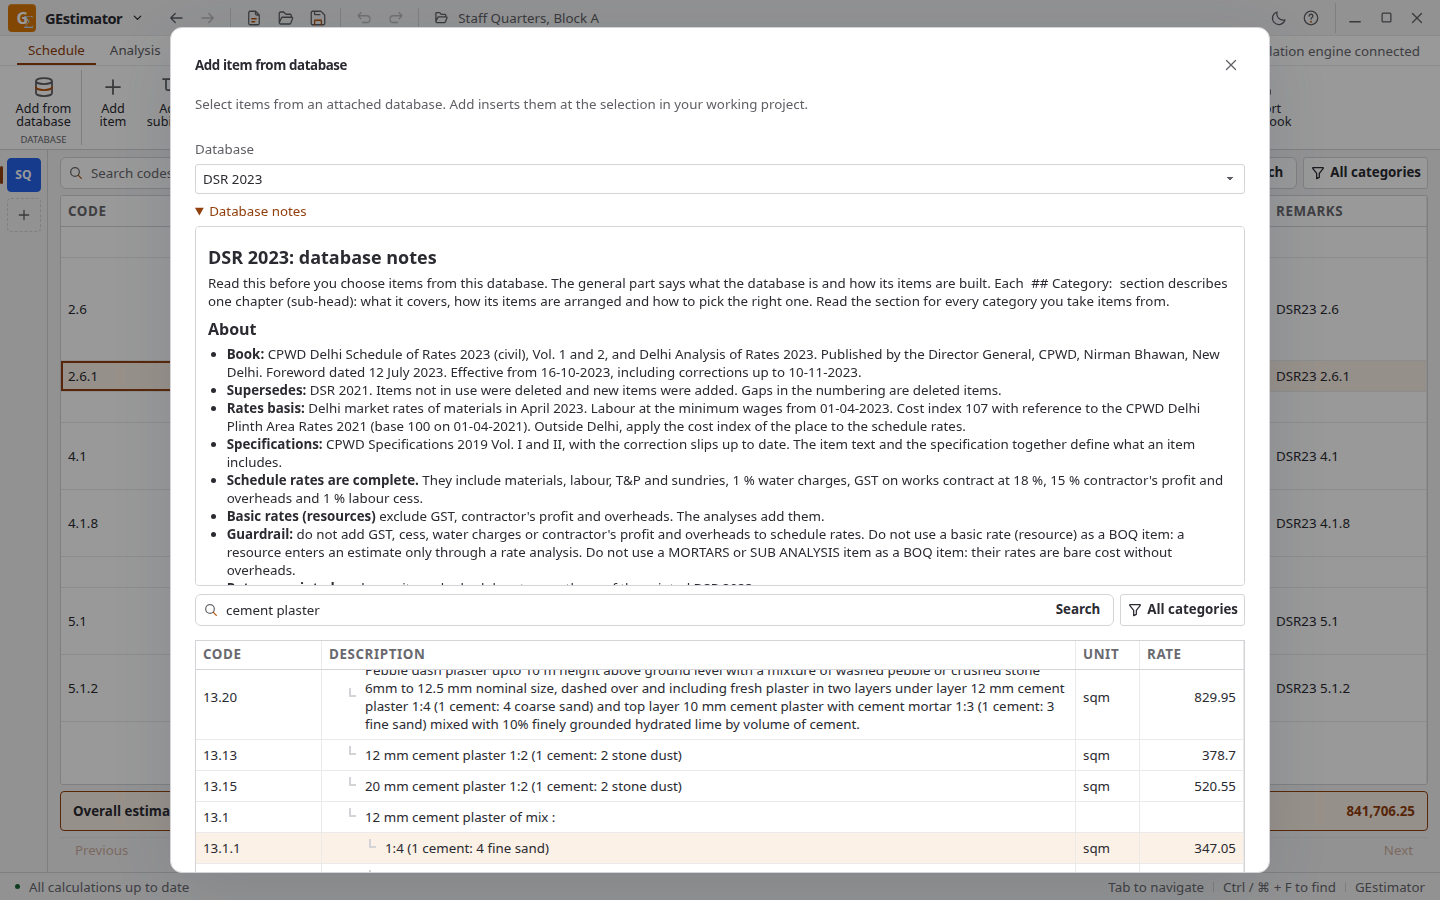
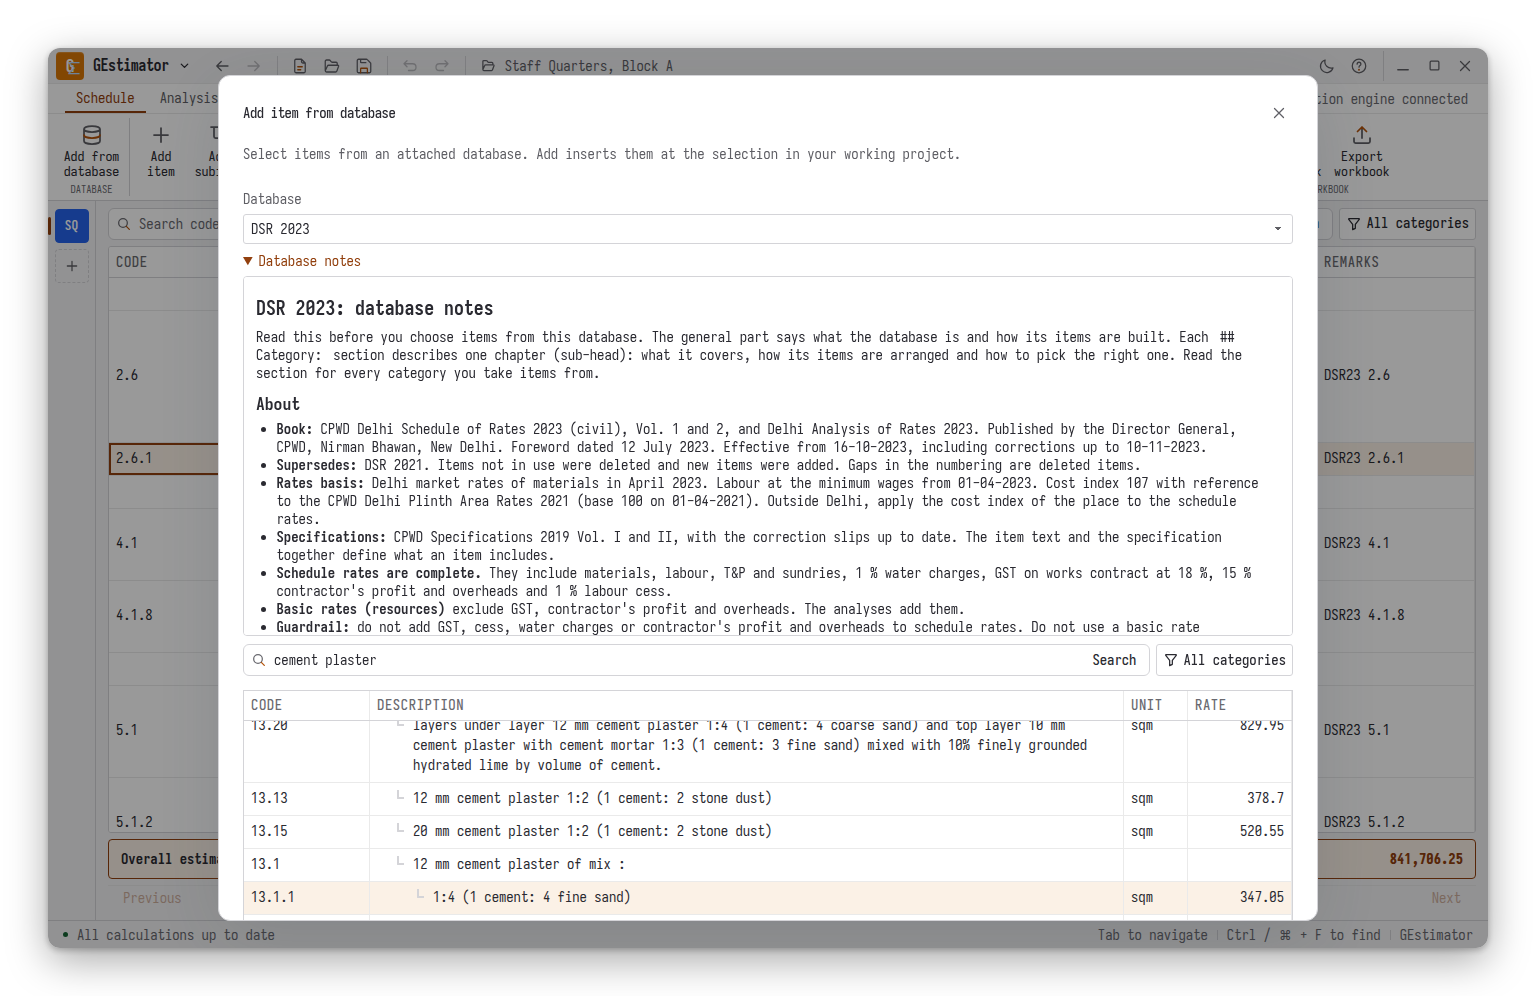
Website: latest screenshots and manual
Screenshots regenerated from master. They carry their own window frame
and drop shadow, so the page no longer adds a border and shadow.

diff --git a/manual.html b/manual.html
@@ -36,6 +36,7 @@
 <li><strong>Title bar:</strong> application menu, back and forward, new, open and save, undo and redo, the project name, theme and keyboard shortcuts.</li>
 <li><strong>View tabs:</strong> Schedule, Analysis, Resources, Measurements, Databases and MCP. The ribbon below the tabs shows the tools of the current view.</li>
 <li><strong>Project rail</strong> (left edge): one tile for each open project. Click a tile to switch projects; <code>+</code> opens a new tab.</li>
+<li><strong>Type-ahead:</strong> type while a table has focus (Schedule, Resources, database picker) to jump to the first row containing every word you type. Rows are not filtered; <strong>Up</strong>/<strong>Down</strong> move between matches and <strong>Esc</strong> closes the find box. From the search field, <strong>Up</strong>/<strong>Down</strong> move through the listed rows.</li>
 <li><strong>Table:</strong> the rows of the current view. A search field and category filter sit above it; the estimate total and page controls sit below it.</li>
 <li><strong>Status bar:</strong> calculation status, unsaved drafts and hints.</li>
 </ul>
@@ -59,15 +60,15 @@
 <li><strong>DSR 2025 Horticulture</strong> – CPWD Horticulture and Landscaping 2025.</li>
 </ul>
 <p>Databases are opened read-only: nothing you do in an estimate changes them. Older schedules (DSR 2016–2021, DSR (E&amp;M) 2016–2022 and others) can be downloaded from <a href="https://github.com/manuvarkey/GEstimator/tree/master/Other%20databases" rel="noopener">Other databases</a>.</p>
-<p>To attach a database:</p>
+<p>The bundled databases and every <code>.eproj</code> file in your database folder are attached automatically each time a project opens. Use <strong>Attach database…</strong> only for other databases:</p>
 <ol>
 <li>Open the <strong>Databases</strong> tab and click <strong>Attach database…</strong>.</li>
-<li>Choose a database from <strong>Available databases</strong>, or enter or browse to any <code>.eproj</code> file under <strong>Library project</strong>.</li>
+<li>Enter or browse to a <code>.eproj</code> file under <strong>Library project</strong>.</li>
 <li>Keep <strong>Remember for future projects</strong> ticked to attach it automatically next time.</li>
 <li>Click <strong>Attach library</strong>.</li>
 </ol>
 <figure><img src="images/attach-database.png" alt="Attach a database" loading="lazy"><figcaption>Attach a database</figcaption></figure>
-<p><strong>Database folder</strong> opens the folder for your own databases. A <code>.eproj</code> file placed there appears in <strong>Available databases</strong>.</p>
+<p><strong>Database folder</strong> opens the folder for your own databases. A <code>.eproj</code> file placed there is attached the next time a project opens, or use <strong>Rescan database folder</strong> in the dialog.</p>
 <h2 id="4-build-the-schedule">4. Build the schedule</h2>
 <p>The Schedule holds the items of the estimate: code, description, unit, rate, quantity, amount and remarks. Items are grouped in categories; an item can have subitems, and a heading row carries the common description of its subitems.</p>
 <h3 id="add-items-from-a-database">Add items from a database</h3>

diff --git a/site.css b/site.css
@@ -48,7 +48,8 @@ nav a:hover { color: var(--accent); }
 .buttons { display: flex; gap: .75rem; justify-content: center; flex-wrap: wrap; }
 .button { display: inline-block; padding: .7rem 1.3rem; border-radius: 6px; font-weight: 600; text-decoration: none; border: 1px solid var(--line); color: var(--text); background: var(--panel); }
 .button.primary { background: var(--accent-fill); border-color: var(--accent-fill); color: var(--on-accent); }
-.shot { margin: 2.5rem auto 0; border: 1px solid var(--line); border-radius: 10px; box-shadow: 0 12px 40px rgb(0 0 0 / .12); display: block; }
+/* Screenshots carry their own window frame and drop shadow. */
+.shot { margin: 2.5rem auto 0; display: block; }
 section { padding: 3rem 0; }
 section h2 { font-size: 1.8rem; margin: 0 0 1.5rem; }
 .grid { display: grid; grid-template-columns: repeat(auto-fit, minmax(260px, 1fr)); gap: 1.25rem; }
@@ -57,7 +58,7 @@ section h2 { font-size: 1.8rem; margin: 0 0 1.5rem; }
 .card p { margin: 0; color: var(--muted); }
 .gallery { display: grid; grid-template-columns: repeat(auto-fit, minmax(320px, 1fr)); gap: 1.25rem; }
 .gallery figure, .manual figure { margin: 0; }
-.gallery img, .manual figure img { border: 1px solid var(--line); border-radius: 8px; display: block; }
+.gallery img, .manual figure img { display: block; }
 figcaption { color: var(--muted); font-size: .9rem; margin-top: .4rem; text-align: center; }
 .downloads { display: grid; grid-template-columns: repeat(auto-fit, minmax(220px, 1fr)); gap: 1rem; }
 .downloads a { text-decoration: none; color: var(--text); }

diff --git a/index.html b/index.html
@@ -21,7 +21,7 @@
     <a class="button primary" href="#download">Download</a>
     <a class="button" href="manual.html">Read the manual</a>
   </div>
-  <img class="shot" src="images/schedule.png" alt="Schedule of an estimate priced from DSR 2023" width="1440" height="900">
+  <img class="shot" src="images/schedule.png" alt="Schedule of an estimate priced from DSR 2023" width="1536" height="996">
 </div>
 
 <section id="features"><div class="wrap">
